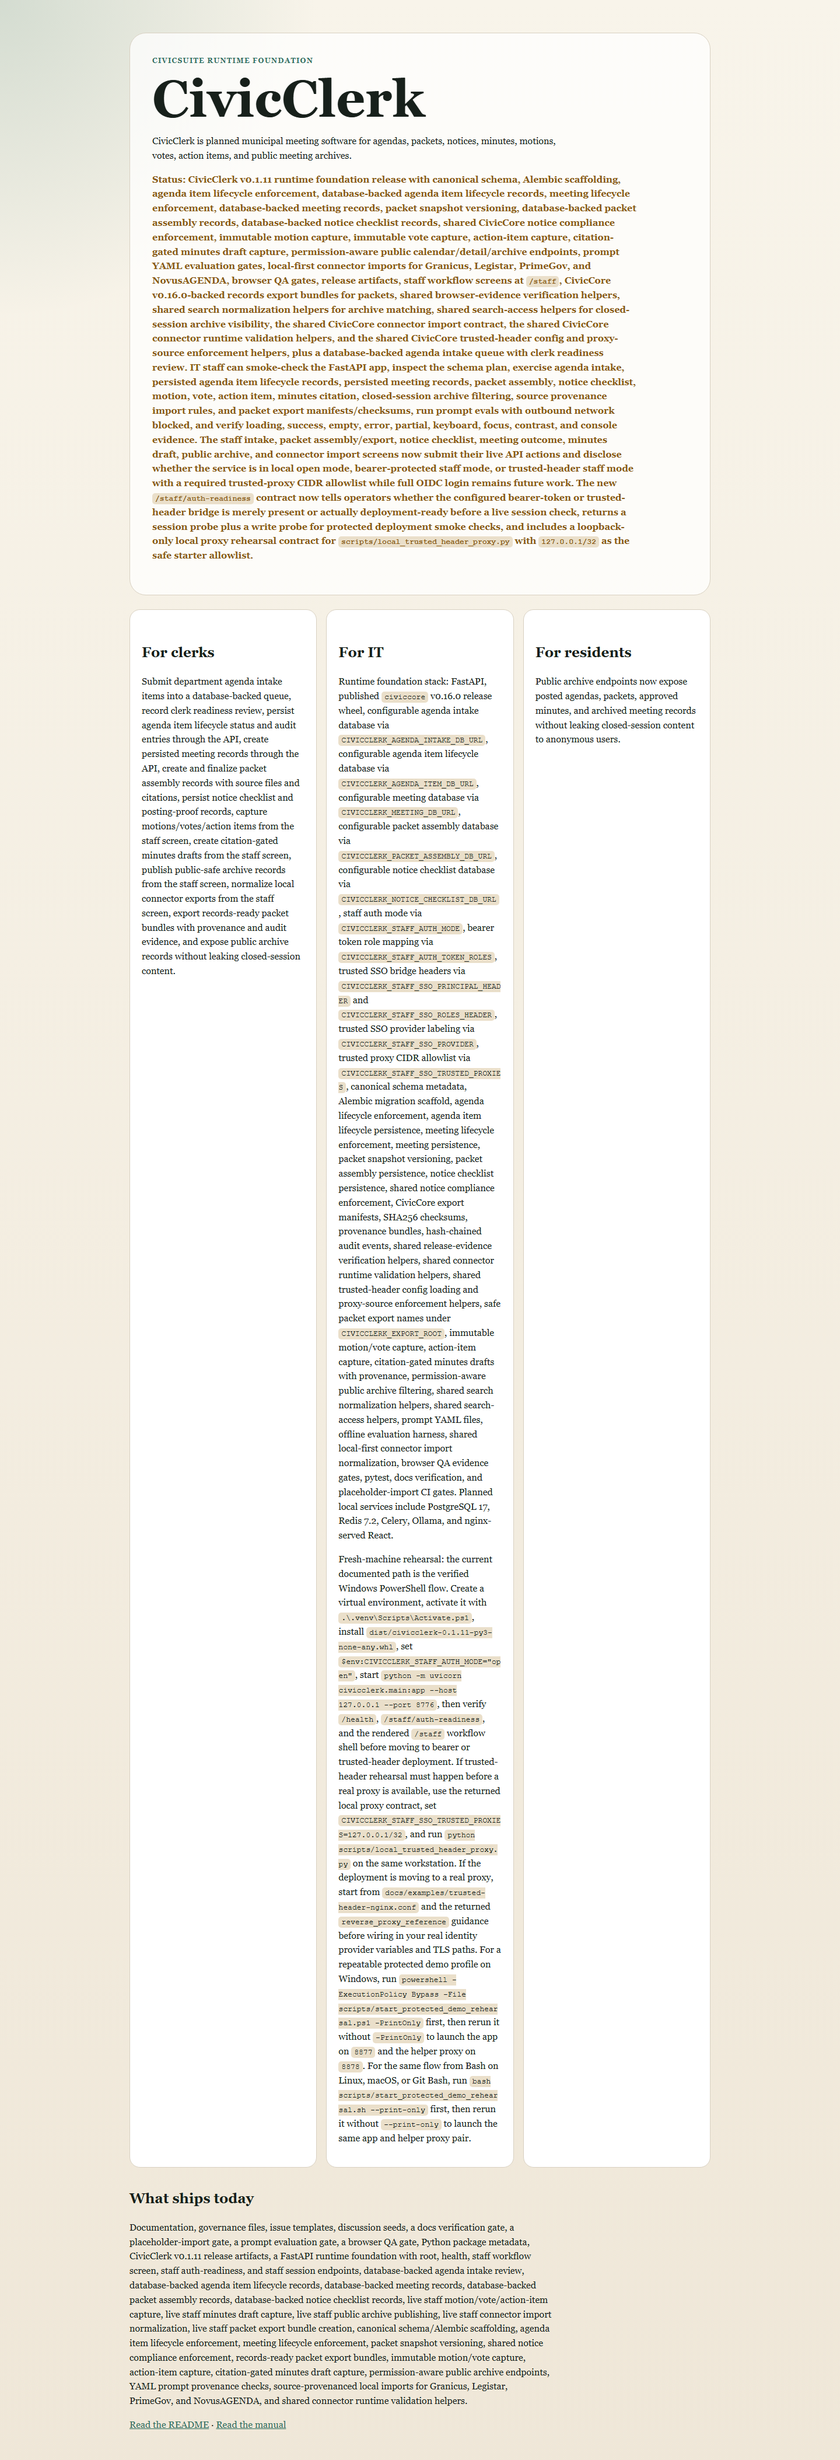
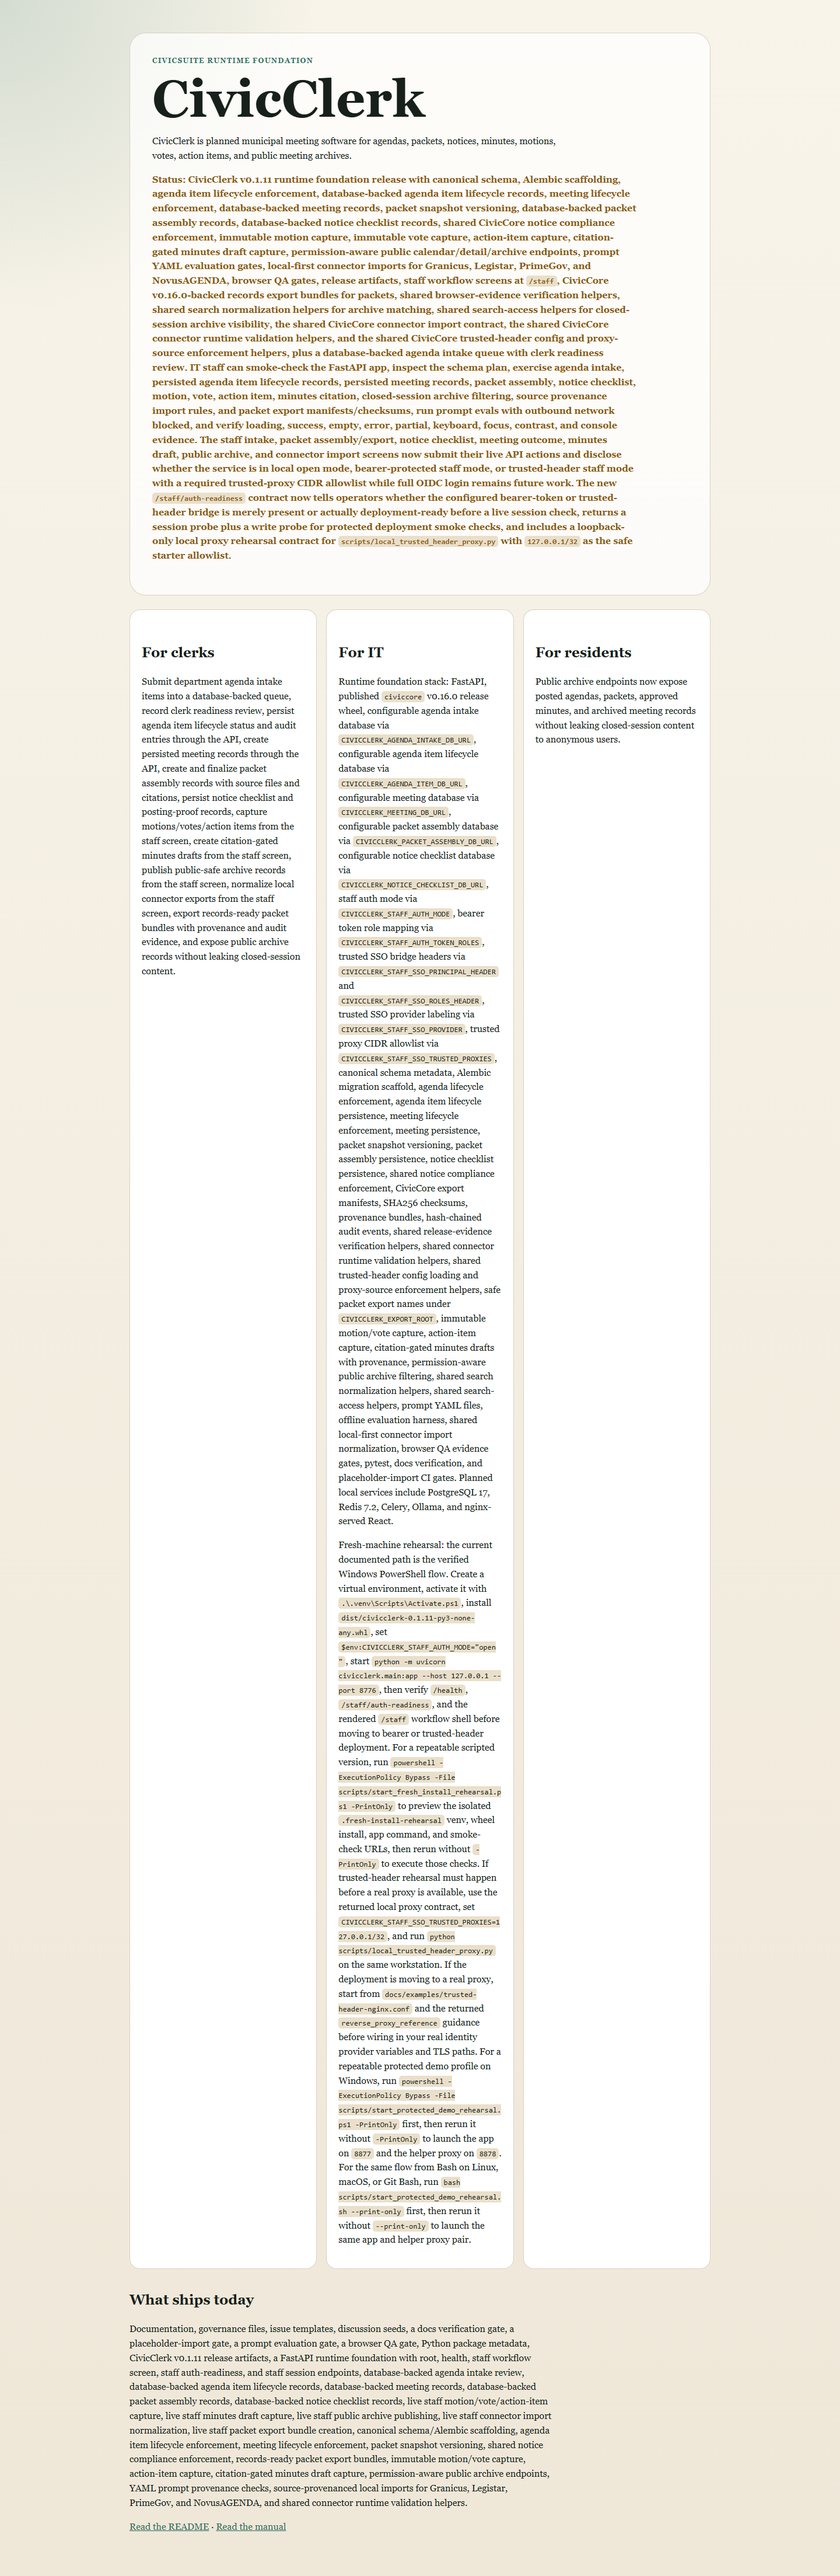
feat: add fresh install rehearsal helper

Changed region(s): [[0.1562, 0.0311, 0.8438, 0.8702], [0.1562, 0.8702, 0.6562, 0.9945]]

diff --git a/docs/index.html b/docs/index.html
@@ -62,7 +62,7 @@
       <article class="card">
         <h2>For IT</h2>
 <p>Runtime foundation stack: FastAPI, published <code>civiccore</code> v0.16.0 release wheel, configurable agenda intake database via <code>CIVICCLERK_AGENDA_INTAKE_DB_URL</code>, configurable agenda item lifecycle database via <code>CIVICCLERK_AGENDA_ITEM_DB_URL</code>, configurable meeting database via <code>CIVICCLERK_MEETING_DB_URL</code>, configurable packet assembly database via <code>CIVICCLERK_PACKET_ASSEMBLY_DB_URL</code>, configurable notice checklist database via <code>CIVICCLERK_NOTICE_CHECKLIST_DB_URL</code>, staff auth mode via <code>CIVICCLERK_STAFF_AUTH_MODE</code>, bearer token role mapping via <code>CIVICCLERK_STAFF_AUTH_TOKEN_ROLES</code>, trusted SSO bridge headers via <code>CIVICCLERK_STAFF_SSO_PRINCIPAL_HEADER</code> and <code>CIVICCLERK_STAFF_SSO_ROLES_HEADER</code>, trusted SSO provider labeling via <code>CIVICCLERK_STAFF_SSO_PROVIDER</code>, trusted proxy CIDR allowlist via <code>CIVICCLERK_STAFF_SSO_TRUSTED_PROXIES</code>, canonical schema metadata, Alembic migration scaffold, agenda lifecycle enforcement, agenda item lifecycle persistence, meeting lifecycle enforcement, meeting persistence, packet snapshot versioning, packet assembly persistence, notice checklist persistence, shared notice compliance enforcement, CivicCore export manifests, SHA256 checksums, provenance bundles, hash-chained audit events, shared release-evidence verification helpers, shared connector runtime validation helpers, shared trusted-header config loading and proxy-source enforcement helpers, safe packet export names under <code>CIVICCLERK_EXPORT_ROOT</code>, immutable motion/vote capture, action-item capture, citation-gated minutes drafts with provenance, permission-aware public archive filtering, shared search normalization helpers, shared search-access helpers, prompt YAML files, offline evaluation harness, shared local-first connector import normalization, browser QA evidence gates, pytest, docs verification, and placeholder-import CI gates. Planned local services include PostgreSQL 17, Redis 7.2, Celery, Ollama, and nginx-served React.</p>
-<p>Fresh-machine rehearsal: the current documented path is the verified Windows PowerShell flow. Create a virtual environment, activate it with <code>.\.venv\Scripts\Activate.ps1</code>, install <code>dist/civicclerk-0.1.11-py3-none-any.whl</code>, set <code>$env:CIVICCLERK_STAFF_AUTH_MODE="open"</code>, start <code>python -m uvicorn civicclerk.main:app --host 127.0.0.1 --port 8776</code>, then verify <code>/health</code>, <code>/staff/auth-readiness</code>, and the rendered <code>/staff</code> workflow shell before moving to bearer or trusted-header deployment. If trusted-header rehearsal must happen before a real proxy is available, use the returned local proxy contract, set <code>CIVICCLERK_STAFF_SSO_TRUSTED_PROXIES=127.0.0.1/32</code>, and run <code>python scripts/local_trusted_header_proxy.py</code> on the same workstation. If the deployment is moving to a real proxy, start from <code>docs/examples/trusted-header-nginx.conf</code> and the returned <code>reverse_proxy_reference</code> guidance before wiring in your real identity provider variables and TLS paths. For a repeatable protected demo profile on Windows, run <code>powershell -ExecutionPolicy Bypass -File scripts/start_protected_demo_rehearsal.ps1 -PrintOnly</code> first, then rerun it without <code>-PrintOnly</code> to launch the app on <code>8877</code> and the helper proxy on <code>8878</code>. For the same flow from Bash on Linux, macOS, or Git Bash, run <code>bash scripts/start_protected_demo_rehearsal.sh --print-only</code> first, then rerun it without <code>--print-only</code> to launch the same app and helper proxy pair.</p>
+<p>Fresh-machine rehearsal: the current documented path is the verified Windows PowerShell flow. Create a virtual environment, activate it with <code>.\.venv\Scripts\Activate.ps1</code>, install <code>dist/civicclerk-0.1.11-py3-none-any.whl</code>, set <code>$env:CIVICCLERK_STAFF_AUTH_MODE="open"</code>, start <code>python -m uvicorn civicclerk.main:app --host 127.0.0.1 --port 8776</code>, then verify <code>/health</code>, <code>/staff/auth-readiness</code>, and the rendered <code>/staff</code> workflow shell before moving to bearer or trusted-header deployment. For a repeatable scripted version, run <code>powershell -ExecutionPolicy Bypass -File scripts/start_fresh_install_rehearsal.ps1 -PrintOnly</code> to preview the isolated <code>.fresh-install-rehearsal</code> venv, wheel install, app command, and smoke-check URLs, then rerun without <code>-PrintOnly</code> to execute those checks. If trusted-header rehearsal must happen before a real proxy is available, use the returned local proxy contract, set <code>CIVICCLERK_STAFF_SSO_TRUSTED_PROXIES=127.0.0.1/32</code>, and run <code>python scripts/local_trusted_header_proxy.py</code> on the same workstation. If the deployment is moving to a real proxy, start from <code>docs/examples/trusted-header-nginx.conf</code> and the returned <code>reverse_proxy_reference</code> guidance before wiring in your real identity provider variables and TLS paths. For a repeatable protected demo profile on Windows, run <code>powershell -ExecutionPolicy Bypass -File scripts/start_protected_demo_rehearsal.ps1 -PrintOnly</code> first, then rerun it without <code>-PrintOnly</code> to launch the app on <code>8877</code> and the helper proxy on <code>8878</code>. For the same flow from Bash on Linux, macOS, or Git Bash, run <code>bash scripts/start_protected_demo_rehearsal.sh --print-only</code> first, then rerun it without <code>--print-only</code> to launch the same app and helper proxy pair.</p>
       </article>
       <article class="card">
         <h2>For residents</h2>

diff --git a/tests/test_milestone_12_release.py b/tests/test_milestone_12_release.py
@@ -103,6 +103,8 @@ def test_docs_include_fresh_machine_install_and_smoke_check_contract() -> None:
         "http://127.0.0.1:8776/health",
         "/staff/auth-readiness",
         '$env:CIVICCLERK_STAFF_AUTH_MODE="open"',
+        "scripts/start_fresh_install_rehearsal.ps1",
+        ".fresh-install-rehearsal",
         "docs/examples/trusted-header-nginx.conf",
         "reverse_proxy_reference",
         "scripts/start_protected_demo_rehearsal.ps1",
@@ -154,6 +156,57 @@ def test_protected_demo_rehearsal_script_prints_expected_plan() -> None:
         "Smoke check: GET http://127.0.0.1:8877/health",
         "Readiness check: GET http://127.0.0.1:8877/staff/auth-readiness",
         "Browser check: open http://127.0.0.1:8878/staff",
+    ]:
+        assert expected in output
+
+
+def test_fresh_install_rehearsal_script_prints_expected_plan() -> None:
+    import subprocess
+    import shutil
+
+    import pytest
+
+    script = ROOT / "scripts" / "start_fresh_install_rehearsal.ps1"
+    assert script.exists()
+    shell = shutil.which("pwsh") or shutil.which("powershell")
+    if shell is None:
+        pytest.skip("PowerShell runtime is not available in this environment.")
+
+    result = subprocess.run(
+        [
+            shell,
+            "-ExecutionPolicy",
+            "Bypass",
+            "-File",
+            str(script),
+            "-PrintOnly",
+        ],
+        cwd=ROOT,
+        check=False,
+        capture_output=True,
+        text=True,
+    )
+
+    assert result.returncode == 0, result.stdout + result.stderr
+    output = result.stdout
+    for expected in [
+        "Fresh install rehearsal profile",
+        "Wheel path:",
+        "Rehearsal root:",
+        ".fresh-install-rehearsal",
+        "Create venv: python -m venv",
+        "Upgrade pip:",
+        "Install wheel:",
+        "Set CIVICCLERK_STAFF_AUTH_MODE=open",
+        "App command:",
+        "python.exe -m uvicorn civicclerk.main:app --host 127.0.0.1 --port 8776",
+        "Smoke check: GET http://127.0.0.1:8776/health",
+        "Readiness check: GET http://127.0.0.1:8776/staff/auth-readiness",
+        "Browser check: open http://127.0.0.1:8776/staff",
+        "Expected health: {\"status\":\"ok\",\"service\":\"civicclerk\",\"version\":\"0.1.11\",\"civiccore\":\"0.16.0\"}",
+        "If the wheel is missing, build it first with: python -m build",
+        "If port 8776 is already in use, stop the existing process or rerun with -AppPort set to an available port.",
+        "pass -KeepServer to keep it running",
     ]:
         assert expected in output
 

diff --git a/README.md b/README.md
@@ -97,6 +97,9 @@ Shipped in this foundation:
 - browser QA gate covering loading, success, empty, error, and partial states
 - accessibility checks for keyboard navigation, focus states, contrast, and console errors
 - CivicClerk v0.1.11 release gate and build artifacts
+- `scripts/start_fresh_install_rehearsal.ps1` to rehearse the documented
+  Windows-first wheel install and first-run smoke checks from an isolated
+  `.fresh-install-rehearsal` virtual environment
 - `/staff/session` to report whether the live staff shell is in local open mode, bearer-protected staff mode, or trusted-header staff mode
 - `/staff/auth-readiness` to report whether the current bearer-token or trusted-header staff auth contract is deployment-ready
 - structured `session_probe` and `write_probe` guidance from `/staff/auth-readiness` when bearer or trusted-header deployment is ready
@@ -140,6 +143,7 @@ A new user can inspect and run the foundation, open first staff workflow screens
    - `GET http://127.0.0.1:8776/health` must return `{"status":"ok","service":"civicclerk","version":"0.1.11","civiccore":"0.16.0"}`
    - `GET http://127.0.0.1:8776/staff/auth-readiness` must report `mode: "open"` and explain how to switch to bearer or trusted-header deployment
    - Open `http://127.0.0.1:8776/staff` and confirm the first workflow shell loads
+   - Use `powershell -ExecutionPolicy Bypass -File scripts/start_fresh_install_rehearsal.ps1 -PrintOnly` to print the repeatable Windows fresh-install rehearsal plan, or rerun without `-PrintOnly` to create `.fresh-install-rehearsal\.venv`, install the release wheel, start the installed app, and run the same smoke checks automatically
    - Use `powershell -ExecutionPolicy Bypass -File scripts/start_protected_demo_rehearsal.ps1 -PrintOnly` on Windows PowerShell or `bash scripts/start_protected_demo_rehearsal.sh --print-only` on Linux, macOS, or Git Bash to print the protected trusted-header demo profile before launching it
 7. Exercise `/agenda-intake`, `/agenda-intake/{id}/review`, `/agenda-items`, `/agenda-items/{id}/transitions`, `/meetings`, `/meetings/{id}/transitions`, `/meetings/{id}/packet-snapshots`, `/meetings/{id}/packet-assemblies`, `/packet-assemblies/{id}/finalize`, `/meetings/{id}/notice-checklists`, `/notice-checklists/{id}/posting-proof`, `/meetings/{id}/export-bundle`, `/meetings/{id}/notices/post`, `/meetings/{id}/motions`, `/motions/{id}/votes`, `/meetings/{id}/action-items`, `/meetings/{id}/minutes/drafts`, `/meetings/{id}/public-record`, `/public/meetings`, `/public/archive/search`, and `/imports/{connector}/meetings` to smoke-check Milestone 10 plus the production-depth live staff action slices.
 8. Set `CIVICCLERK_AGENDA_ITEM_DB_URL` before agenda item lifecycle persistence smoke checks, set `CIVICCLERK_MEETING_DB_URL` before meeting persistence smoke checks, and set `CIVICCLERK_EXPORT_ROOT` before API packet export smoke checks; API callers provide a relative `bundle_name`, not an arbitrary filesystem path.
@@ -168,6 +172,8 @@ The foundation is intentionally thin. Canonical schema, Alembic scaffolding, age
 The staff experience at `/staff` now includes first workflow screens for agenda intake, packet assembly/export, notice checklist/posting-proof, meeting outcome, minutes draft, public archive, and connector import work. It is intentionally honest: these seven screens can submit their corresponding live API actions, the auth panel now renders concrete protected-session and protected-write probes from `/staff/auth-readiness` when bearer or trusted-header mode is ready, it surfaces the loopback-only local proxy rehearsal command and env vars when trusted-header mode is being staged, and the broader multi-role React clerk console remains future work.
 
 For the first real trusted-header deployment handoff, `docs/examples/trusted-header-nginx.conf` now ships a reference nginx bridge that strips client-supplied identity headers, sets proxy-owned staff headers, and points operators back to `CIVICCLERK_STAFF_SSO_TRUSTED_PROXIES` plus the `/staff/auth-readiness` contract before live staff traffic is trusted.
+
+For fresh Windows install rehearsals, `scripts/start_fresh_install_rehearsal.ps1` now prints and can execute the documented wheel-install path from an isolated `.fresh-install-rehearsal` virtual environment: create venv, upgrade pip, install `dist/civicclerk-0.1.11-py3-none-any.whl`, set `CIVICCLERK_STAFF_AUTH_MODE=open`, launch the installed app on `127.0.0.1:8776`, verify `/health`, verify `/staff/auth-readiness`, and fetch `/staff`. If the wheel is missing, the helper tells the operator to build it with `python -m build` before trying again.
 
 For protected demos on Windows PowerShell, `scripts/start_protected_demo_rehearsal.ps1` now prints and can launch the loopback-only trusted-header profile end to end: the app on `127.0.0.1:8877`, the helper proxy on `127.0.0.1:8878`, the required trusted-header env vars, the health/readiness checks, and the browser target for `/staff`.
 

diff --git a/USER-MANUAL.md b/USER-MANUAL.md
@@ -147,6 +147,20 @@ Then verify these first-run checks:
 - `GET /staff` renders the first workflow shell without console errors
 - Linux and Unix shell parity still needs its own rehearsal before those commands are documented as supported
 
+To rehearse that Windows-first path without hand-copying each command, run:
+
+```powershell
+powershell -ExecutionPolicy Bypass -File scripts/start_fresh_install_rehearsal.ps1 -PrintOnly
+```
+
+The print-only mode shows the virtual environment path, wheel path, app command,
+and exact smoke-check URLs. Rerun the same script without `-PrintOnly` to create
+`.fresh-install-rehearsal\.venv`, install the release wheel into that isolated
+environment, start the installed app on `127.0.0.1:8776`, verify `/health`,
+verify `/staff/auth-readiness`, and fetch `/staff`. If the release wheel is not
+present, the helper stops with the fix path: build it first with `python -m
+build`.
+
 If staff access will stay local for a demo or rehearsal, keep
 `CIVICCLERK_STAFF_AUTH_MODE=open`. If the deployment must protect staff
 workflows, move to `bearer` or `trusted_header` before user testing and use

diff --git a/CHANGELOG.md b/CHANGELOG.md
@@ -5,6 +5,10 @@ All notable changes to CivicClerk are documented here.
 ## [Unreleased]
 
 ### Added
+- `scripts/start_fresh_install_rehearsal.ps1` now prints and can execute the
+  documented Windows-first fresh-machine wheel install plus `/health`,
+  `/staff/auth-readiness`, and `/staff` smoke checks from an isolated
+  `.fresh-install-rehearsal` virtual environment.
 - `docs/examples/trusted-header-nginx.conf` now ships the first real trusted-header
   reverse-proxy reference bridge for CivicClerk staff auth handoff.
 - `scripts/start_protected_demo_rehearsal.ps1` now prints and can launch a
